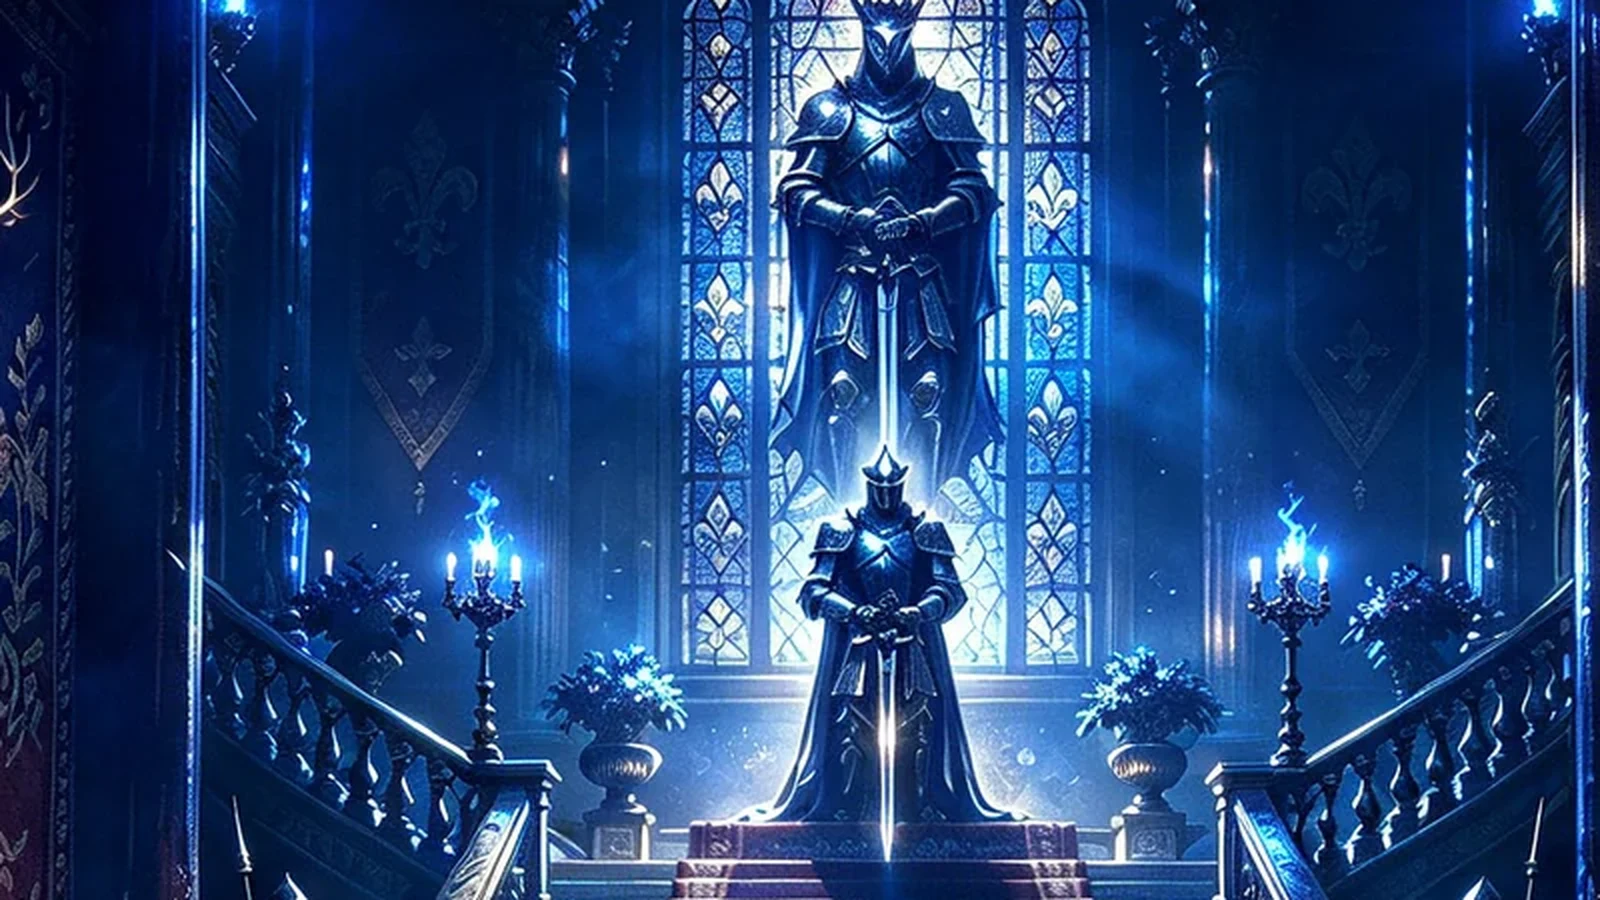
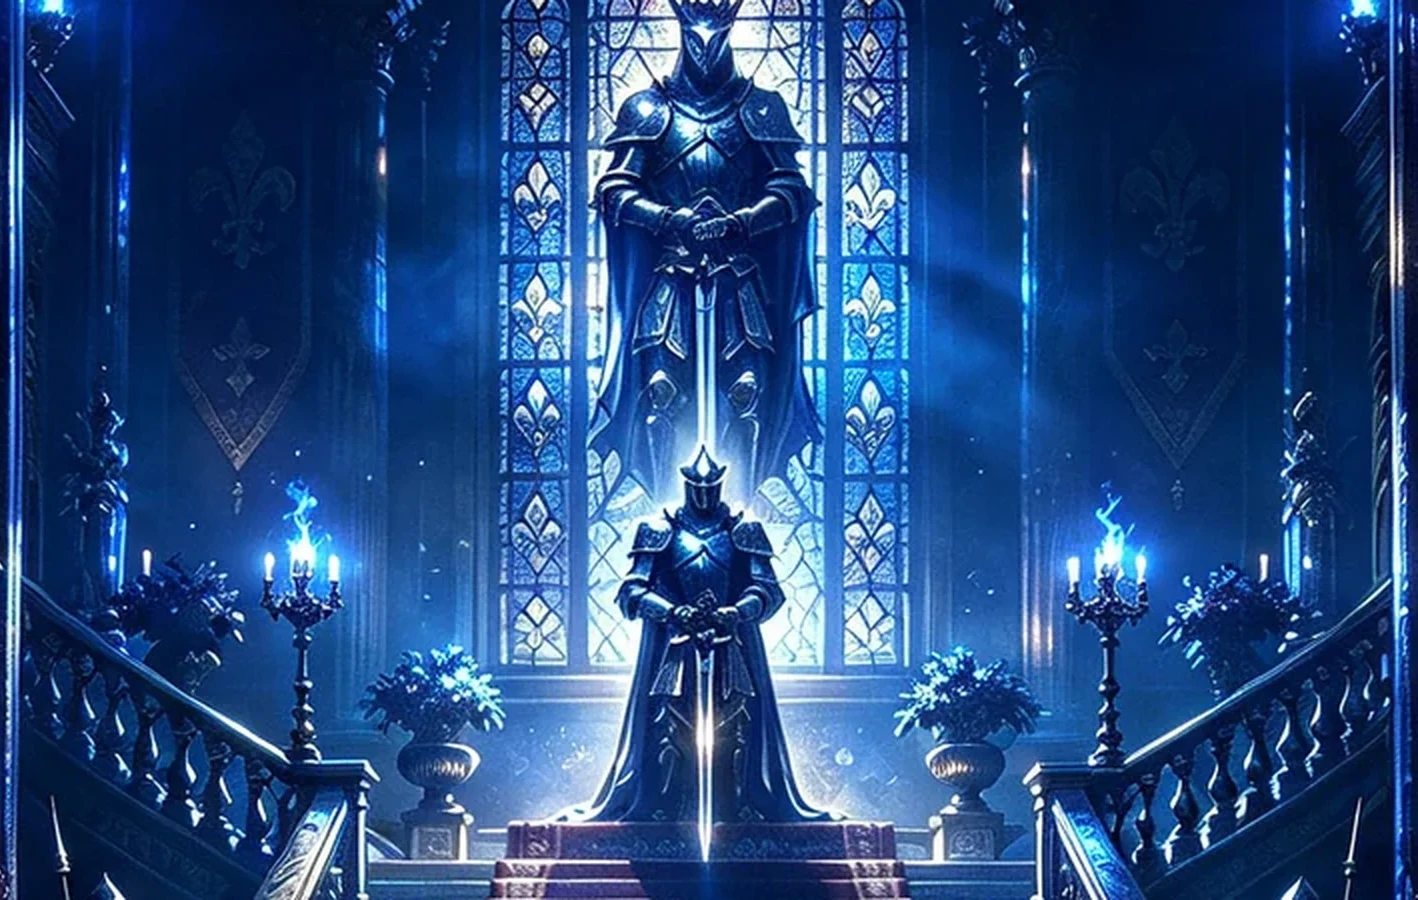
Pianerottolo: immagine ricentrata sull'armatura (tolta la fascia sinistra, 1418x900), dimensione aggiornata
Claude-Session: https://claude.ai/code/session_01HNZwf58zYcotMfsLuiGXU2

diff --git a/gioco.html b/gioco.html
@@ -5858,7 +5858,7 @@
 
     /* il buio usa l'immagine dell'esterno, spenta fino al nero (classe "nera") */
     const IMMAGINI = { cimitero: "immagini/house/cimitero.webp" /* 30/10 */, pineta: "immagini/house/foresta_pini.webp" /* 29/10 */, pineta_est: "immagini/house/foresta_pini.webp", pineta_ovest: "immagini/house/foresta_pini.webp" /* 30/10: provvisorie, in attesa di foresta_nord/est/ovest */, foresta: "immagini/house/esterno_dungeon.webp", buio: "immagini/house/esterno_dungeon.webp", atrio: "immagini/house/atrio.webp", pianerottolo: "immagini/house/pianerottolo.webp" /* ritaglio dell'atrio: vetrata, armatura e scalinata */, sala_caccia: "immagini/house/sala_caccia.webp", sala_caccia_aldo: "immagini/house/sala_caccia_aldo.webp", sala_conversazione: "immagini/house/sala_conversazione.webp", giardino: "immagini/house/giardino.webp", cappella: "immagini/house/cappella.webp", cripta: "immagini/house/cripta.webp", sala_trofei: "immagini/house/sala_trofei.webp", sala_pranzo: "immagini/house/sala_pranzo.webp", corridoio: "immagini/house/corridoio.webp", sala_ballo: "immagini/house/sala_ballo.webp", cucina: "immagini/house/cucina.webp", dispensa: "immagini/house/dispensa.webp", cantina: "immagini/house/cantina.webp", discesa_cantina: "immagini/house/discesa_cantina.webp", mastino: "immagini/house/mastino_cantina.webp", servizio: "immagini/house/discesa_cantina.webp", guendalina: "immagini/house/guendalina.webp" };
-    const DIM_IMMAGINI = { cimitero: [2848, 1600], pineta: [2304, 1728], pineta_est: [2304, 1728], pineta_ovest: [2304, 1728], foresta: [1920, 1079], buio: [1920, 1079], corridoio: [2848, 1600], sala_ballo: [2304, 1728], giardino: [2848, 1600], cucina: [1920, 1079], dispensa: [2848, 1600], cantina: [2848, 1600], discesa_cantina: [2780, 1308], servizio: [2780, 1308], guendalina: [2048, 1536], atrio: [1920, 1079], pianerottolo: [1600, 900], sala_trofei: [2304, 1728], sala_conversazione: [1358, 679], cappella: [2848, 1600] }; /* le altre sono 1536 × 1024 */
+    const DIM_IMMAGINI = { cimitero: [2848, 1600], pineta: [2304, 1728], pineta_est: [2304, 1728], pineta_ovest: [2304, 1728], foresta: [1920, 1079], buio: [1920, 1079], corridoio: [2848, 1600], sala_ballo: [2304, 1728], giardino: [2848, 1600], cucina: [1920, 1079], dispensa: [2848, 1600], cantina: [2848, 1600], discesa_cantina: [2780, 1308], servizio: [2780, 1308], guendalina: [2048, 1536], atrio: [1920, 1079], pianerottolo: [1418, 900], sala_trofei: [2304, 1728], sala_conversazione: [1358, 679], cappella: [2848, 1600] }; /* le altre sono 1536 × 1024 */
     const imgStanza = (id) => id === "cimitero" && usate && usate.enea && usate.enea !== "morto" ? "immagini/house/cimitero_enea.webp" /* 30/10: Enea, il becchino, finché è lì (anche risparmiato) */ : id === "cripta" && usate && usate.ettore !== "morto" && usate.ettore !== "risparmiato" ? "immagini/house/cripta_ettore.webp" : IMMAGINI[id]; /* 29/10: Ettore e il suo giaciglio */
     const vista = (id) => ({ titolo: TX.viste[id].titolo, img: imgStanza(id) ? { src: imgStanza(id), alt: TX.viste[id].alt } : undefined, buia: (id === "cantina" && !usate.cantina_luce) || (id === "cripta" && !!usate.cripta_buia) }); /* cantina al buio: riquadro nero */
 
